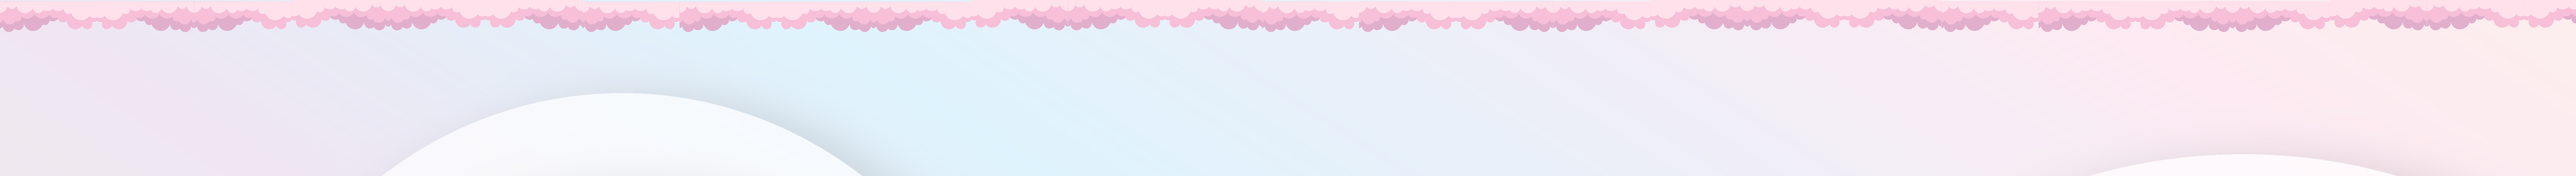
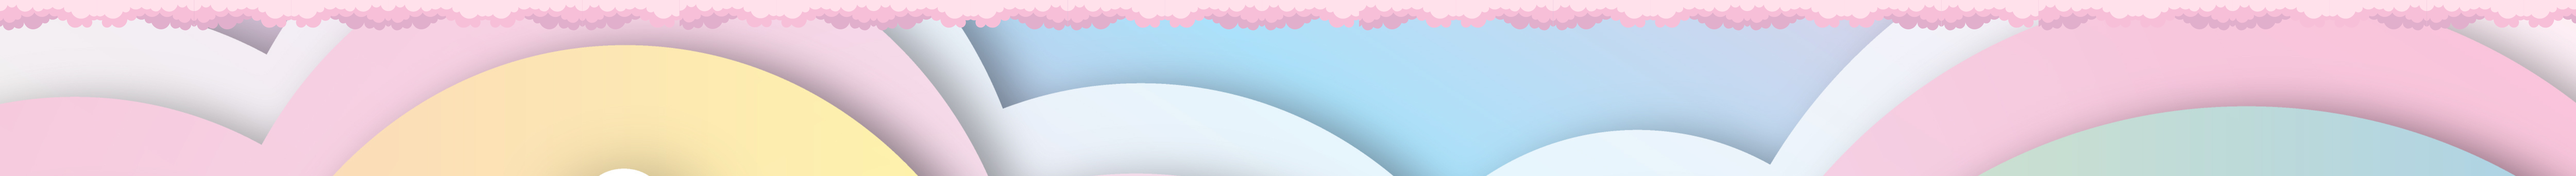
some edits to princess page

diff --git a/assets/main.scss b/assets/main.scss
@@ -126,7 +126,7 @@
   width: 100%;
   min-height: 15vh;
 
-  background-image: url("{{site.baseurl}}/assets/images/banner-backgrounds/princessBanner1.png");
+  background-image: url("{{site.baseurl}}/assets/images/banner-backgrounds/princessBackground.png");
   background-size: cover;
   background-position: center;
   background-repeat: no-repeat;
